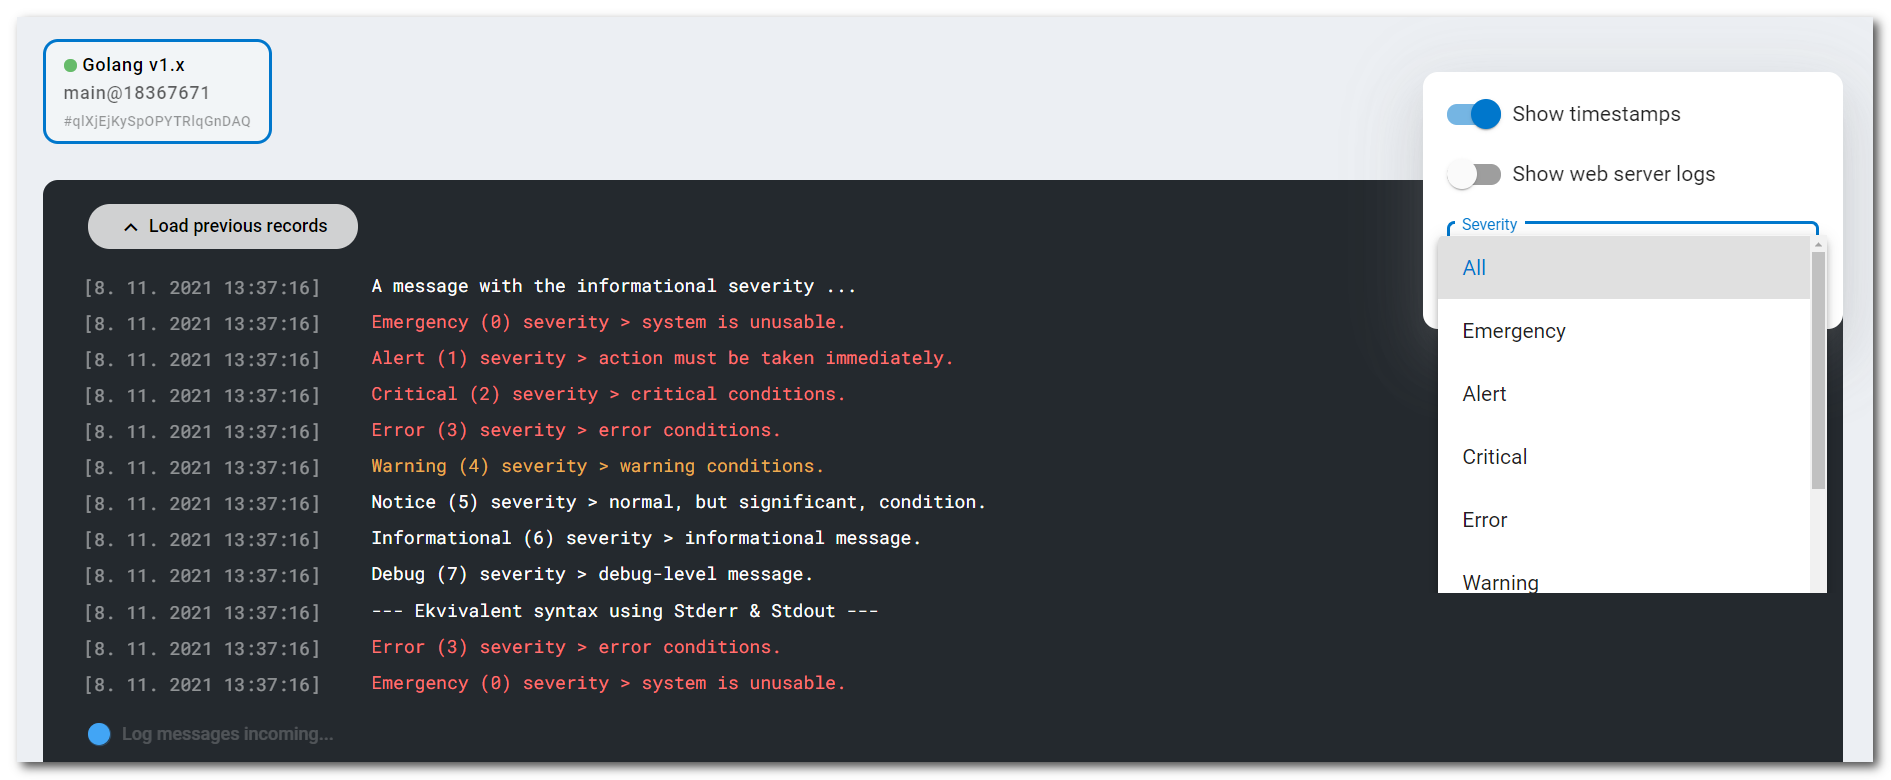
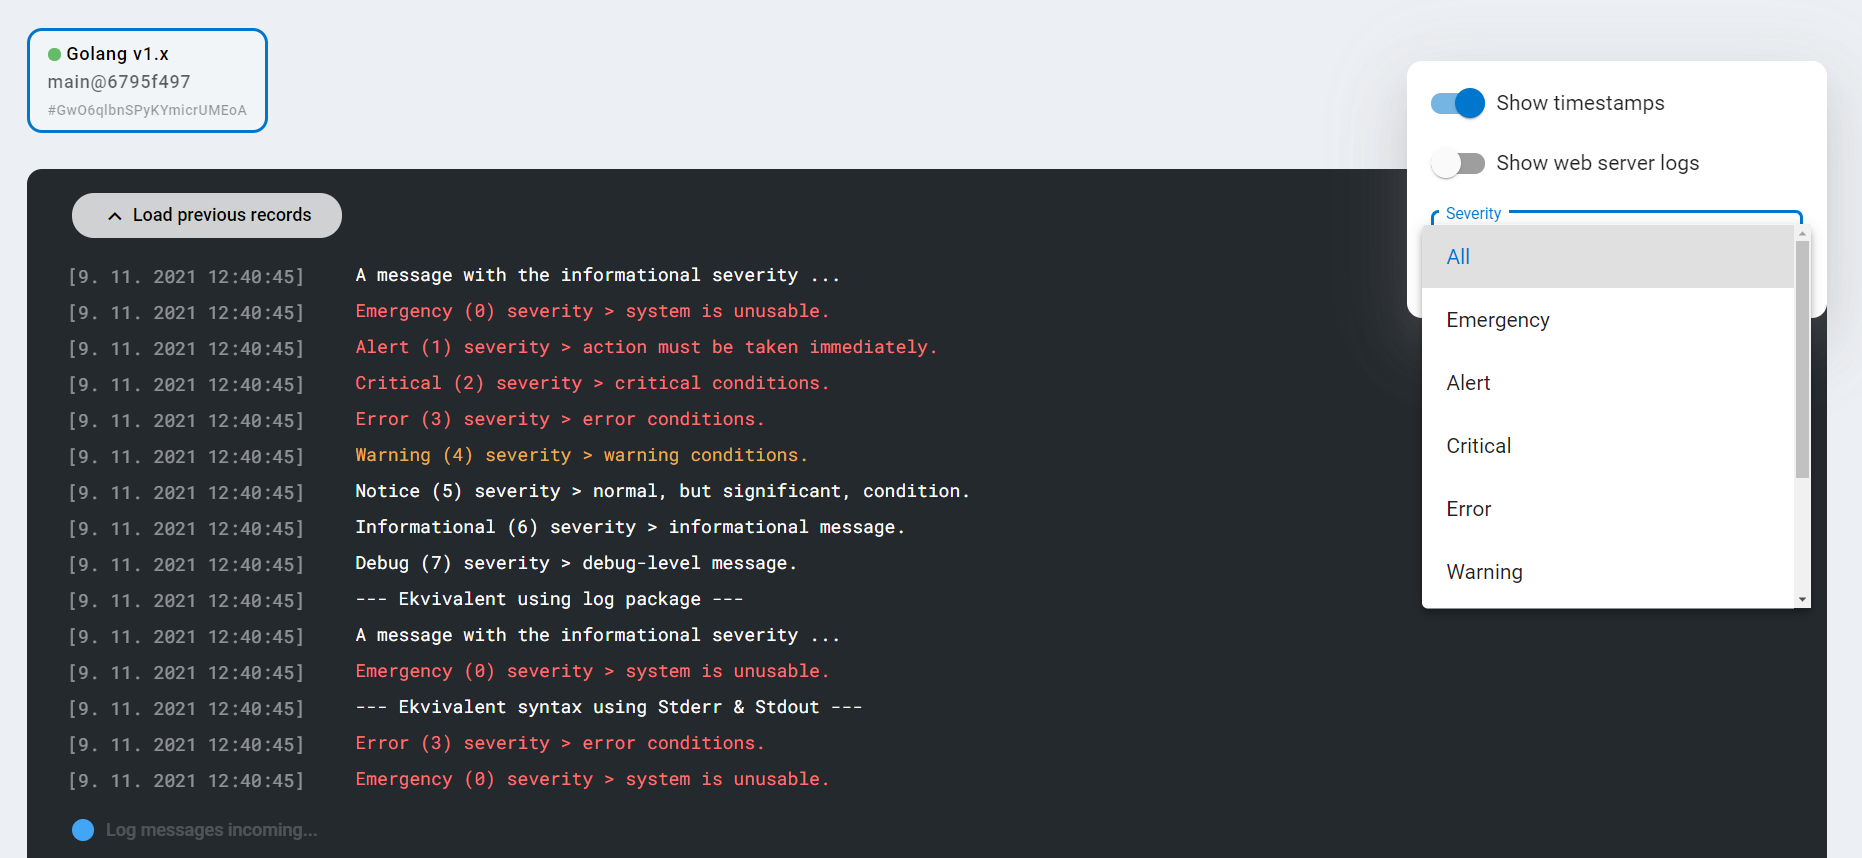
docs(logging): finalization

Changed region(s): [[0.0, 0.0308, 0.9968, 1.0]]

diff --git a/src/documentation/services/runtimes/golang.md b/src/documentation/services/runtimes/golang.md
@@ -121,7 +121,7 @@ Both console and **important** system messages coming from the container's runti
 
 ![Runtime log](./images/Runtime-Log.png "Runtime log access")
 
-All messages sent to **Stderr** (standard error file descriptor) or **Stdout** (standard output file descriptor), using the Golang `fmt` package, are processed via **Linux Systemd daemon** as log messages with **facility number 16** ( ==`local0`== ) and **severity 6** (**Informational**) by default (see [RFC5424](https://datatracker.ietf.org/doc/html/rfc5424#section-6.2.1)).
+All messages sent to **Stderr** (standard error file descriptor) or **Stdout** (standard output file descriptor), using the Golang `fmt` or `log` packages, are processed via **Linux Systemd daemon** as log messages with **facility number 16** ( ==`local0`== ) and **severity 6** (**Informational**) by default (see [RFC5424](https://datatracker.ietf.org/doc/html/rfc5424#section-6.2.1)).
 
 If you want to set another severity, use a message prefix ==`<N>`== to encode such a log severity in printed lines, as shown below.
 
@@ -135,6 +135,11 @@ fmt.Println("<4>Warning (4) severity > warning conditions.")
 fmt.Println("<5>Notice (5) severity > normal, but significant, condition.")
 fmt.Println("<6>Informational (6) severity > informational message.")
 fmt.Println("<7>Debug (7) severity > debug-level message.")
+
+log.SetFlags(0) // To eliminate a timestamp as a default message prefix.
+log.Println("--- Ekvivalent using log package ---")
+log.Println("A message with the informational severity ...")
+log.Println("<0>Emergency (0) severity > system is unusable.")
 
 fmt.Println("--- Ekvivalent syntax using Stderr & Stdout ---")
 fmt.Fprintf(os.Stderr, "<3>Error (3) severity > error conditions.\n")
